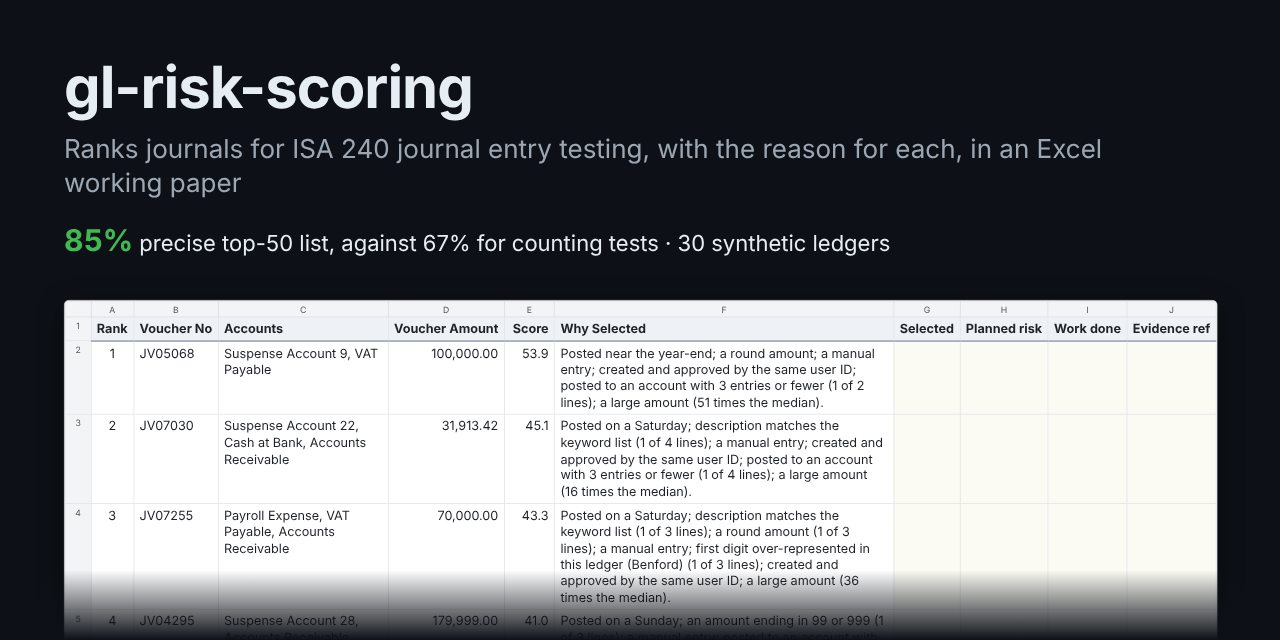
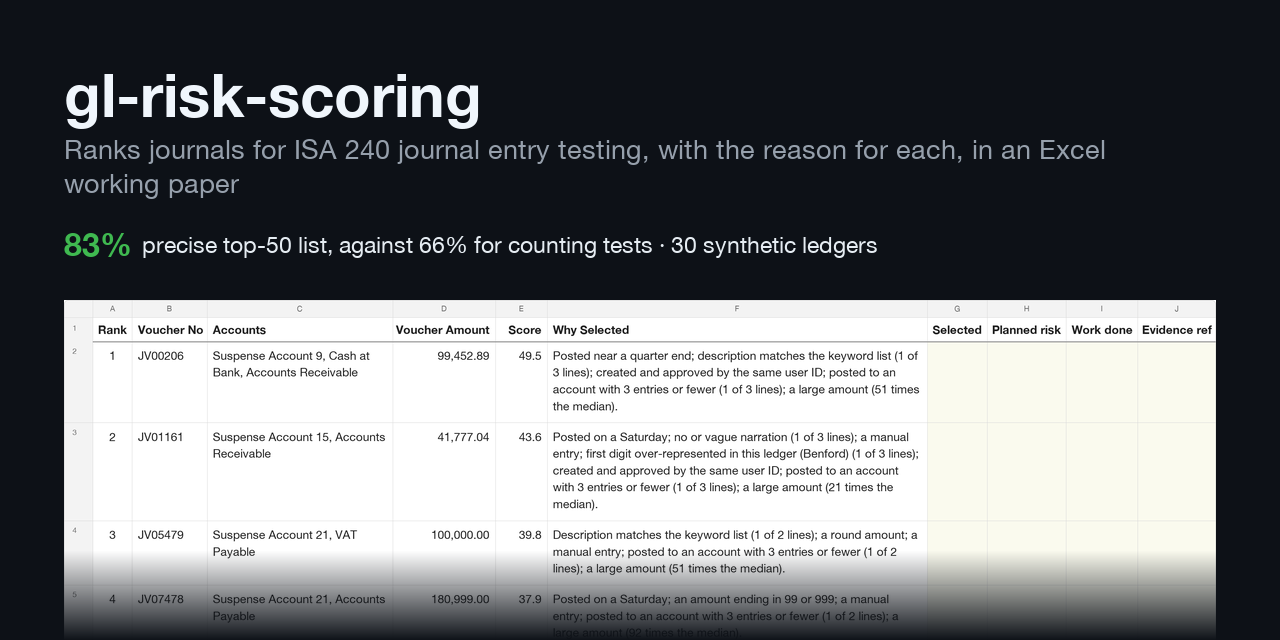
Redraw the social preview with the 0.8.0 figures

diff --git a/CHANGELOG.md b/CHANGELOG.md
@@ -1,5 +1,9 @@
 # Changelog
 
+## Unreleased
+
+- **Docs**: the social preview image shows the 0.8.0 figures and sample.
+
 ## 0.8.0
 
 Batch vouchers in the synthetic ledger, and the amount multiplier sized on the largest flagged line. Every
